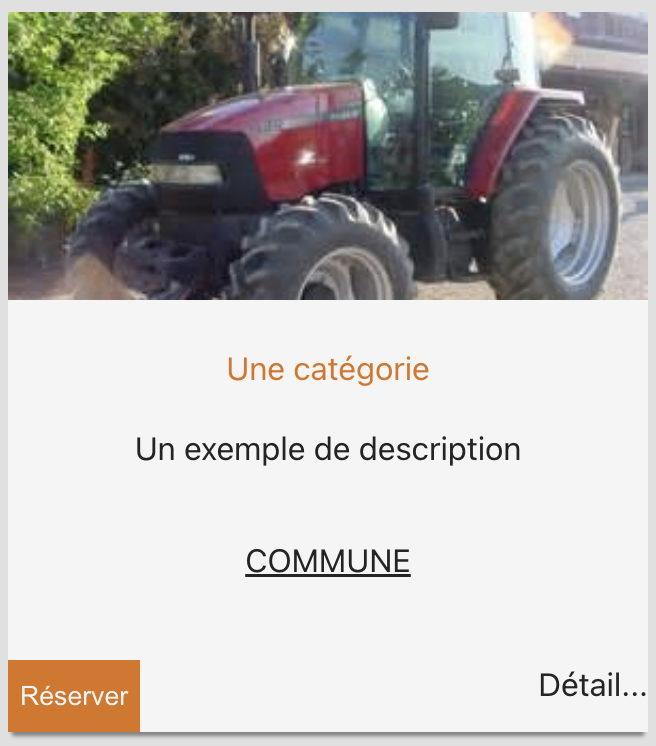
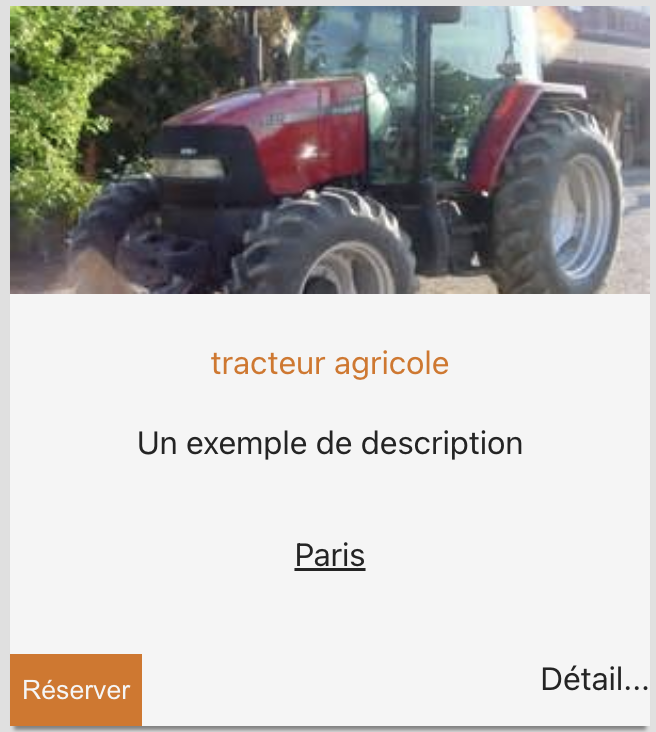
v1

diff --git a/how-to/REACT-CONTEXT.md b/how-to/REACT-CONTEXT.md
@@ -93,13 +93,13 @@ const { state, dispatch } = useAppContext();
 To `dispatch` an `action`, use the following code in your React Component:
 
 ```jsx
-function AddItemToBasketButton() {
+function RentButton() {
   const { state, dispatch } = useAppContext();
   return (
     <button
       onClick={function () {
         dispatch({
-          type: "NEW_ITEM_ADDED",
+          type: "NEW_BASKET_ITEM",
           item: { title: "red tractor" },
         });
       }}
@@ -108,10 +108,10 @@ function AddItemToBasketButton() {
 }
 ```
 
-When user will click on the `AddItemToBasketButton`:
+When user will click on the `RentButton`:
 
-1. an `action` of `type` `NEW_ITEM_ADDED` will be `dispatched`
-2. and the `reducer` function will be called with the `action` parameter which will be the object `{ type: "NEW_ITEM_ADDED", item: { title: "red tractor" } }`
+1. an `action` of `type` `NEW_BASKET_ITEM` will be `dispatched`
+2. and the `reducer` function will be called with the `action` parameter which will be the object `{ type: "NEW_BASKET_ITEM", item: { title: "red tractor" } }`
 
    ```jsx
    function reducer(state, action) {
@@ -150,14 +150,13 @@ When user will click on the `AddItemToBasketButton`:
 
 Let's consider our `TractorCard` React component from [React.useState hook documentation](./REACT-USE-STATE-HOOK.md).
 
-### Example: Add to basket feature
+### Example: Réserver feature
 
-**Feature**: When a user clicks on the `Add to basket` button:
+**Feature**: When a user clicks on the `Réserver` button:
 
-- The `TractorCard` button is disabled
+- The `Réserver` button is disabled and text becomes `Ajouté au panier`
 - a new `item` is added the the `basket`
-- the navigation menu `Badge` is incremented by 1
-- the `BasketTable` React component displays the new `item` added
+- a `Basket` React component displays the new `item` added
 
 Considering the following `AppContext`:
 
@@ -210,76 +209,94 @@ function App() {
 export default App;
 ```
 
-#### `AddToBasket` React component
+#### `RentButton` React component
 
-The `AddToBasket` button React component will look like:
+The `RentButton` button React component will look like:
 
 ```jsx
 import React from "react";
-import { useAppContext } from "./AppContext";
+import useAppContext from "./AppContext";
 
-function AddToBasket({ item }) {
+export function RentButton({ tractor }) {
   const { state, dispatch } = useAppContext();
+  function onRentClick() {
+    dispatch({
+      type: "NEW_BASKET_ITEM",
+      item: tractor,
+    });
+  }
 
-  // alreadyAdded is `true` if state.basket contains the `item` passed in props;
-  // alreadtAdded is `false` otherwise
+  // isRented is `true` if state.basket contains the `item` passed in props
+  //                    (by checking the tractor id)
+  // isRented is `false` otherwise
   // Note:
-  //    `find` will return the `item` in basket if found and `undefined` otherwise
-  //    the operator `!!` will return `true` if `item` is found and false if `undefined`
-  const alreadyAdded = !!state.basket.find(
-    (itemInBasket) => itemInBasket.title === item.title
-  );
+  //    `find(<condition function>)` checks if a basket's state incudes this
+  //                                 tractor by checking only the `id` field
+  //                                 of tractor, so `id` needs to be unique.
+  const isRented = state.basket.find((t) => tractor.id === t.id);
+
+  const buttonText = isRented ? "Ajouté au panier" : "Réserver";
 
   return (
     <button
-      disabled={alreadyAdded}
-      onClick={function () {
-        dispatch({ type: "NEW_BASKET_ITEM", item: item });
+      disabled={isRented}
+      onClick={() => {
+        onRentClick();
       }}
     >
-      {alreadyAdded ? "Déjà ajouté au panier" : "Ajouter au panier"}
+      {buttonText}
     </button>
   );
 }
-
-export default AddToBasket;
 ```
 
 This React component can be use inside the `TractorCard` component like:
 
 ```jsx
 import React from "react";
-import AddToBasket from "./AddToBasket";
+import { RentButton } from "./RentButton";
 
-function TractorCard({ title, price, discount, imageSrc }) {
+function TractorCard() {
+  const tractor = {
+    id: 1,
+    commune: "Paris",
+    category: "tracteur agricole",
+    description: "Un exemple de description",
+    imageUrl: "https://touslestracteurs.com/images/Case_IH/CX90.jpg",
+  };
   return (
-    <div className="card">
-      {/** ... **/}
-      <AddToBasket item={{ title: title, price: price - discount }} />
+    <div className="catalog-item">
+      <img src={tractor.imageUrl} />
+      <div className="content">
+        <span className="category">{tractor.category}</span>
+        <p>{tractor.description}</p>
+        <p>{tractor.commune}</p>
+      </div>
+      <div className="actions">
+        <RentButton tractor={tractor} />
+        <a>Détail...</a>
+      </div>
     </div>
   );
 }
-
-export default TractorCard;
 ```
 
-![add to basket](../images/before-click-add-to-basket.png)
+![Réserver](../images/before-click-add-to-basket.png)
 
-![alread added](../images/already-added.png)
+![already added](../images/already-added.png)
 
-#### `BasketTable` React component
+#### `Basket` React component
 
-The `BasketTable` React component looks like:
+The `Basket` React component looks like:
 
 ```jsx
 import useAppContext from "./AppContext";
-import "./Basket.css";
 
 function EmptyBasket() {
   return <h4>Votre panier est vide</h4>;
 }
 
-function BasketTable() {
+export function Basket() {
   const {
     state: { basket },
   } = useAppContext();
@@ -288,16 +305,16 @@ function BasketTable() {
     <table>
       <thead>
         <tr>
-          <th>Produit</th>
-          <th>Prix</th>
+          <th>Catégorie</th>
+          <th>Commune</th>
         </tr>
       </thead>
       <tbody>
         {basket.length > 0 ? (
           basket.map((item, idx) => (
             <tr key={idx}>
-              <td>{item.title}</td>
-              <td>{item.price} € / kg</td>
+              <td>{item.category}</td>
+              <td>Lieu: {item.commune}</td>
             </tr>
           ))
         ) : (
@@ -311,75 +328,25 @@ function BasketTable() {
     </table>
   );
 }
-
-export default BasketTable;
 ```
 
 The line `const { state: { basket } } = useAppContext();` reads the `state.basket` proprety from the Application `state`.
-When this value changes, the `BasketTable` React component gets `re-rendered`.
+When this value changes, the `Basket` React component gets `re-rendered`.
 
 If some `item` are present in the `state.basket` array, then some table rows with `item.title` and `item.price` will be re-rendered.
 If no items are in the `state.basket` array (e.g. initial state of the app), the the `EmptyBasket` React component will be rendered and the text `Votre panier est vide` will be displayed.
 
 ![basket with item](../images/basket-with-item.png)
 
-#### `MainMenu` with `Basket` navigation item React component
-
-The MainMenu React component using `react-router-dom` and the `@fortawesome/react-fontawesome` library for the basket icon looks like:
-
-```jsx
-import { FontAwesomeIcon } from "@fortawesome/react-fontawesome";
-import { faShoppingCart } from "@fortawesome/free-solid-svg-icons";
-import NavItem from "./NavItem";
-import useAppContext from "./AppContext";
-
-function MainMenu() {
-  const {
-    state: { basket },
-  } = useAppContext();
-  const numberOfItemsInBasket = basket.length;
-
-  return (
-    <nav className="menu-horizontal">
-      <ul>
-        <li>
-          <NavItem to="/product">Produits</NavItem>
-        </li>
-        <li>
-          <NavItem to="/command">Commandes</NavItem>
-        </li>
-        <li>
-          <NavItem to="/basket">
-            <FontAwesomeIcon icon={faShoppingCart} />
-            {numberOfItemsInBasket > 0 && `(${numberOfItemsInBasket})`}
-          </NavItem>
-        </li>
-      </ul>
-    </nav>
-  );
-}
-
-export default MainMenu;
-```
-
-The line `const { state: { basket } } = useAppContext();` reads the `state.basket` array of `item` which will re-render the `MainMenu` when `state.basket` will change.
-
-The next line `const numberOfItemsInBasket = basket.length;` is only keeping the number of `item` in `state.basket` by reading the lenght of the `state.basket` array.
-
-This will then render the `(1)` when one item is added to the `state.basket` array, `(2)` when a second item will be added, etc.
-
-![basket nav link](../images/basket-new-item.png)
-
 #### Summary
 
-When a user clicks on a `Ajouter au panier` button, exposed by the `AddToBasket` React component, an `action` with `{ type: "NEW_BASKET_ITEM", item: {title: "...", price: ... }}` is `dispatched` using the `dispatch` function obtain by the `useAppContext()` hook.
+When a user clicks on a `Ajouter au panier` button, exposed by the `RentButton` React component, an `action` with `{ type: "NEW_BASKET_ITEM", item: {category: "...", commune: ... }}` is `dispatched` using the `dispatch` function obtain by the `useAppContext()` hook.
 
-Then, the `reducer` function from the `AppContext.jsx` file is called and will transform the initial state of `{ state: { basket: [] } }` to `{ state: { basket: [ { title: "...", price: ... } ] } }`.
+Then, the `reducer` function from the `AppContext.jsx` file is called and will transform the initial state of `{ state: { basket: [] } }` to `{ state: { basket: [ { category: "...", commune: ... } ] } }`.
 
 A new `state` is set which will:
 
-- re-render the `MainMenu`; which will render a `(1)` next to the basket icon
-- re-render the `AddToBasket` button of the clicked item; which will render the button as `disabled` and replace the text to `Déjà ajouté au panier`
-- re-render the `BasketTable`; which will render the table with one row corresponding to the `item` dispatched
+- re-render the `RentButton` button of the clicked item; which will render the button as `disabled` and replace the text to `Ajouté au panier`
+- re-render the `Basket`; which will render the table with one row corresponding to the `item` dispatched
 
 That's all there is to know, with this setup, you should be able to implement **any** reactivity what so ever to your application.

diff --git a/README.md b/README.md
@@ -269,17 +269,15 @@ export default function App() {
 }
 ```
 
-Follow the documentation provided [how to use React context](./how-to/REACT-CONTEXT.md) to know how to use the `useAppContext` hooks.
+Follow the documentation provided [how to use React context](./how-to/REACT-CONTEXT.md) to know how to use the `useAppContext` hooks and help you create a new `Basket` view.
 
-If for some of your component you need local state management, see the [How to use React.useState documentation provided in this workshop](./how-to/REACT-USE-STATE-HOOK.md)
-
-> This documentation explains how to implement the `Add to basket` functionality; which is the objective of the [Challenge 1](#challenge-1-add-to-basket)
+> This documentation explains how to implement the `Add to basket` functionality; which covers partially the objective of the [Challenge 1](#challenge-1-add-to-basket)
 
 ## Step 4: Adapt our CD
 
 It's time to deploy all those achievements.
 
-**Objective**: Adapt the CD pipline to deploy the reactive frontend of socrate.
+**Objective**: Adapt the CD pipline to deploy the reactive frontend of sotracteur.
 
 ### Dockerize the frontend
 
@@ -312,19 +310,25 @@ server {
 - Create a new Dockerfile under `frontend/` directory:
 
 ```dockerfile
-FROM node:19 as build
+FROM node:21-alpine as build
 
-COPY . /code
 WORKDIR /code
 
-RUN npm install
+COPY package.json .
+COPY package-lock.json .
+
+RUN npm ci
+
+COPY . .
 RUN npm run build
 
-FROM nginx:1.23.4
 
-ADD nginx/default.conf /etc/nginx/conf.d/default.conf
-COPY --from=build /code/dist/ /usr/share/nginx/html/
+FROM nginx:1.25.4-alpine
 
+COPY nginx/default.conf /etc/nginx/conf.d/default.conf
+COPY --from=build /code/dist /usr/share/nginx/html
+
+EXPOSE 80
 ```
 
 > Note: this dockerfile uses this nice [multi-stage build feature from Docker](https://docs.docker.com/develop/develop-images/multistage-build/)
@@ -335,8 +339,8 @@ COPY --from=build /code/dist/ /usr/share/nginx/html/
 
 ```sh
 # from frontend/
-docker build -t socrate:react .
-docker run -p 8090:80 socrate:react
+docker build -t sotracteur:react .
+docker run -p 8090:80 sotracteur:react
 ```
 
 Check out your app on [localhost:8090](http://localhost:8090).
@@ -363,14 +367,19 @@ build-frontend: # you can rename your build step to be more precise!
 
 ## Challenge 1: Add to basket
 
-**Objective** Integrate the `Add to basket` functionality describe in the [example section of the how to use React context](./how-to/REACT-CONTEXT.md#example-add-to-basket-feature)
+**Feature**: When a user clicks on the `Réserver` button:
+
+- The `Réserver` button is disabled and text becomes `Ajouté au panier`
+- a new `item` is added the the `basket`
+- a `Basket` React component displays the new `item` added
+- a new `Badge` with the number of item in basket is displayed in the menu (next to the basket menu item)
+
+> Note: except from the last bullet point, there is a lot of help in the [how to: React.useContext](./how-to/REACT-CONTEXT.md) documentation.
 
 ## Challenge 2: Remove from basket
-
-Implement the following feature.
 
 **Feature**: When a user selects the `delete` icon of the basket table:
 
 - the item gets removed from the basket table or list (however you've decided to display items in basket)
 - the main navigation's item number is decreased by 1 (e.g. from `(2)` to `(1)` or from `(1)` to nothing)
-- the product becomes enabled again to be put in the basket
+- the tractor becomes available for renting again
